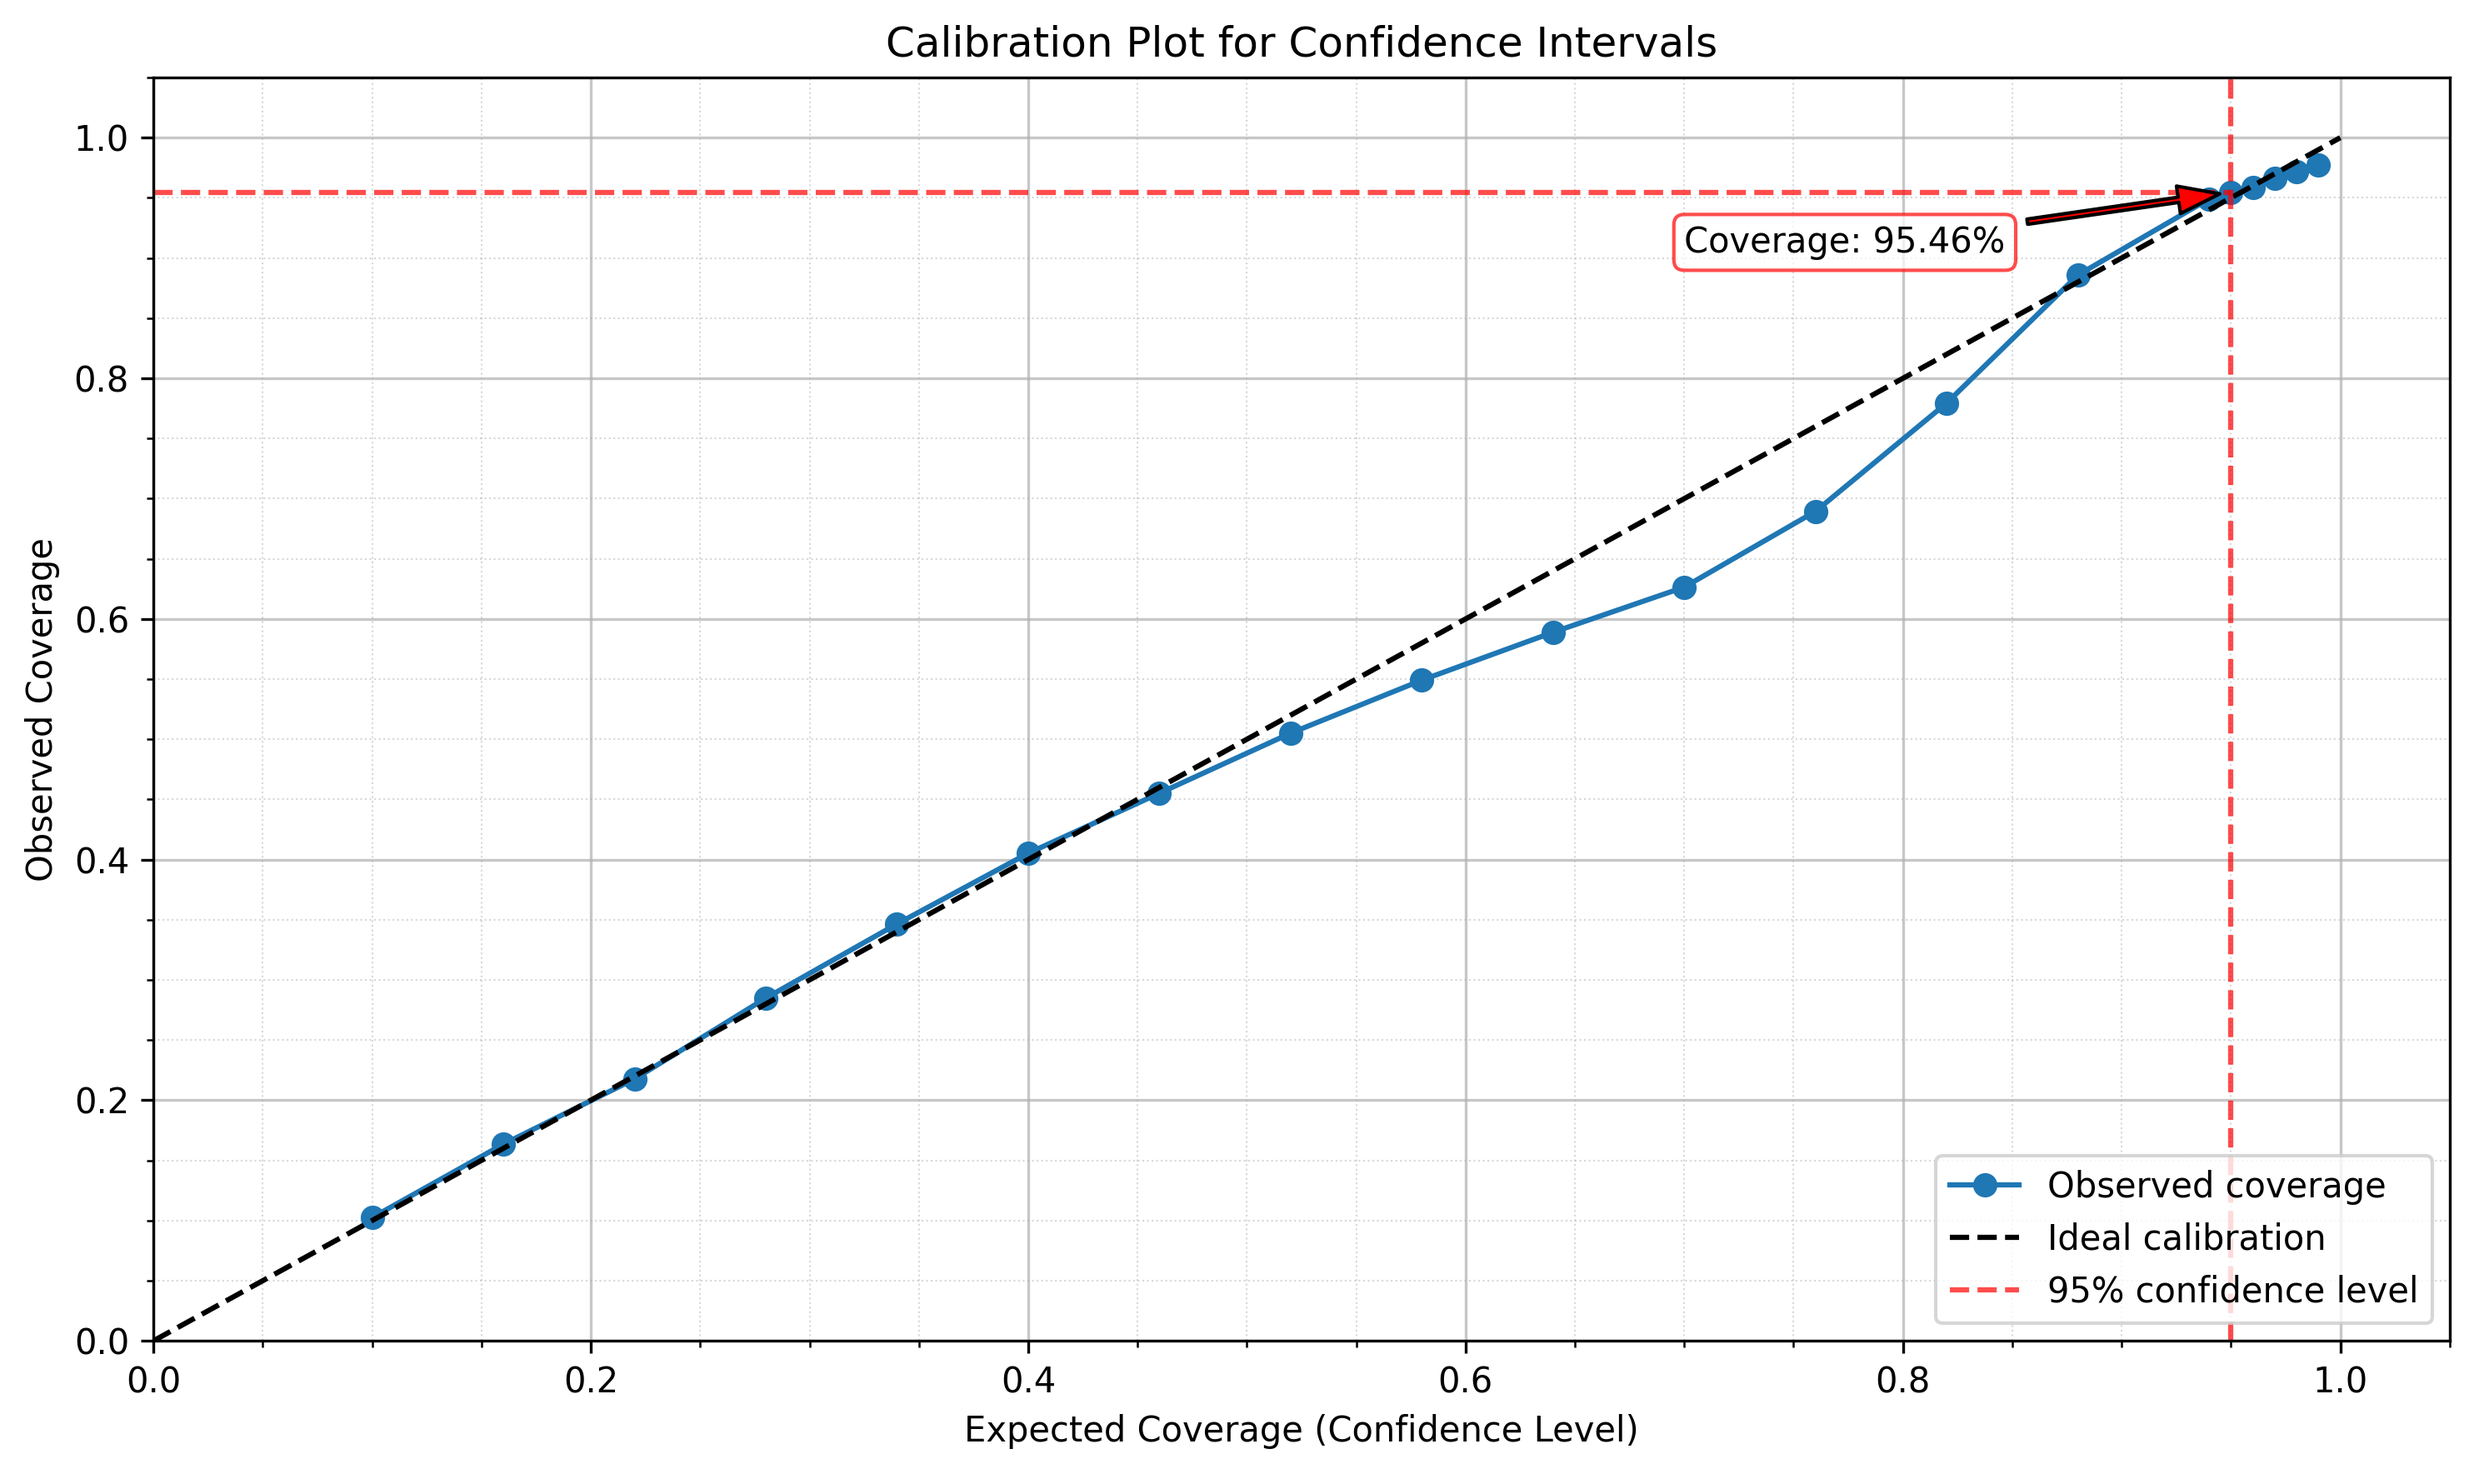
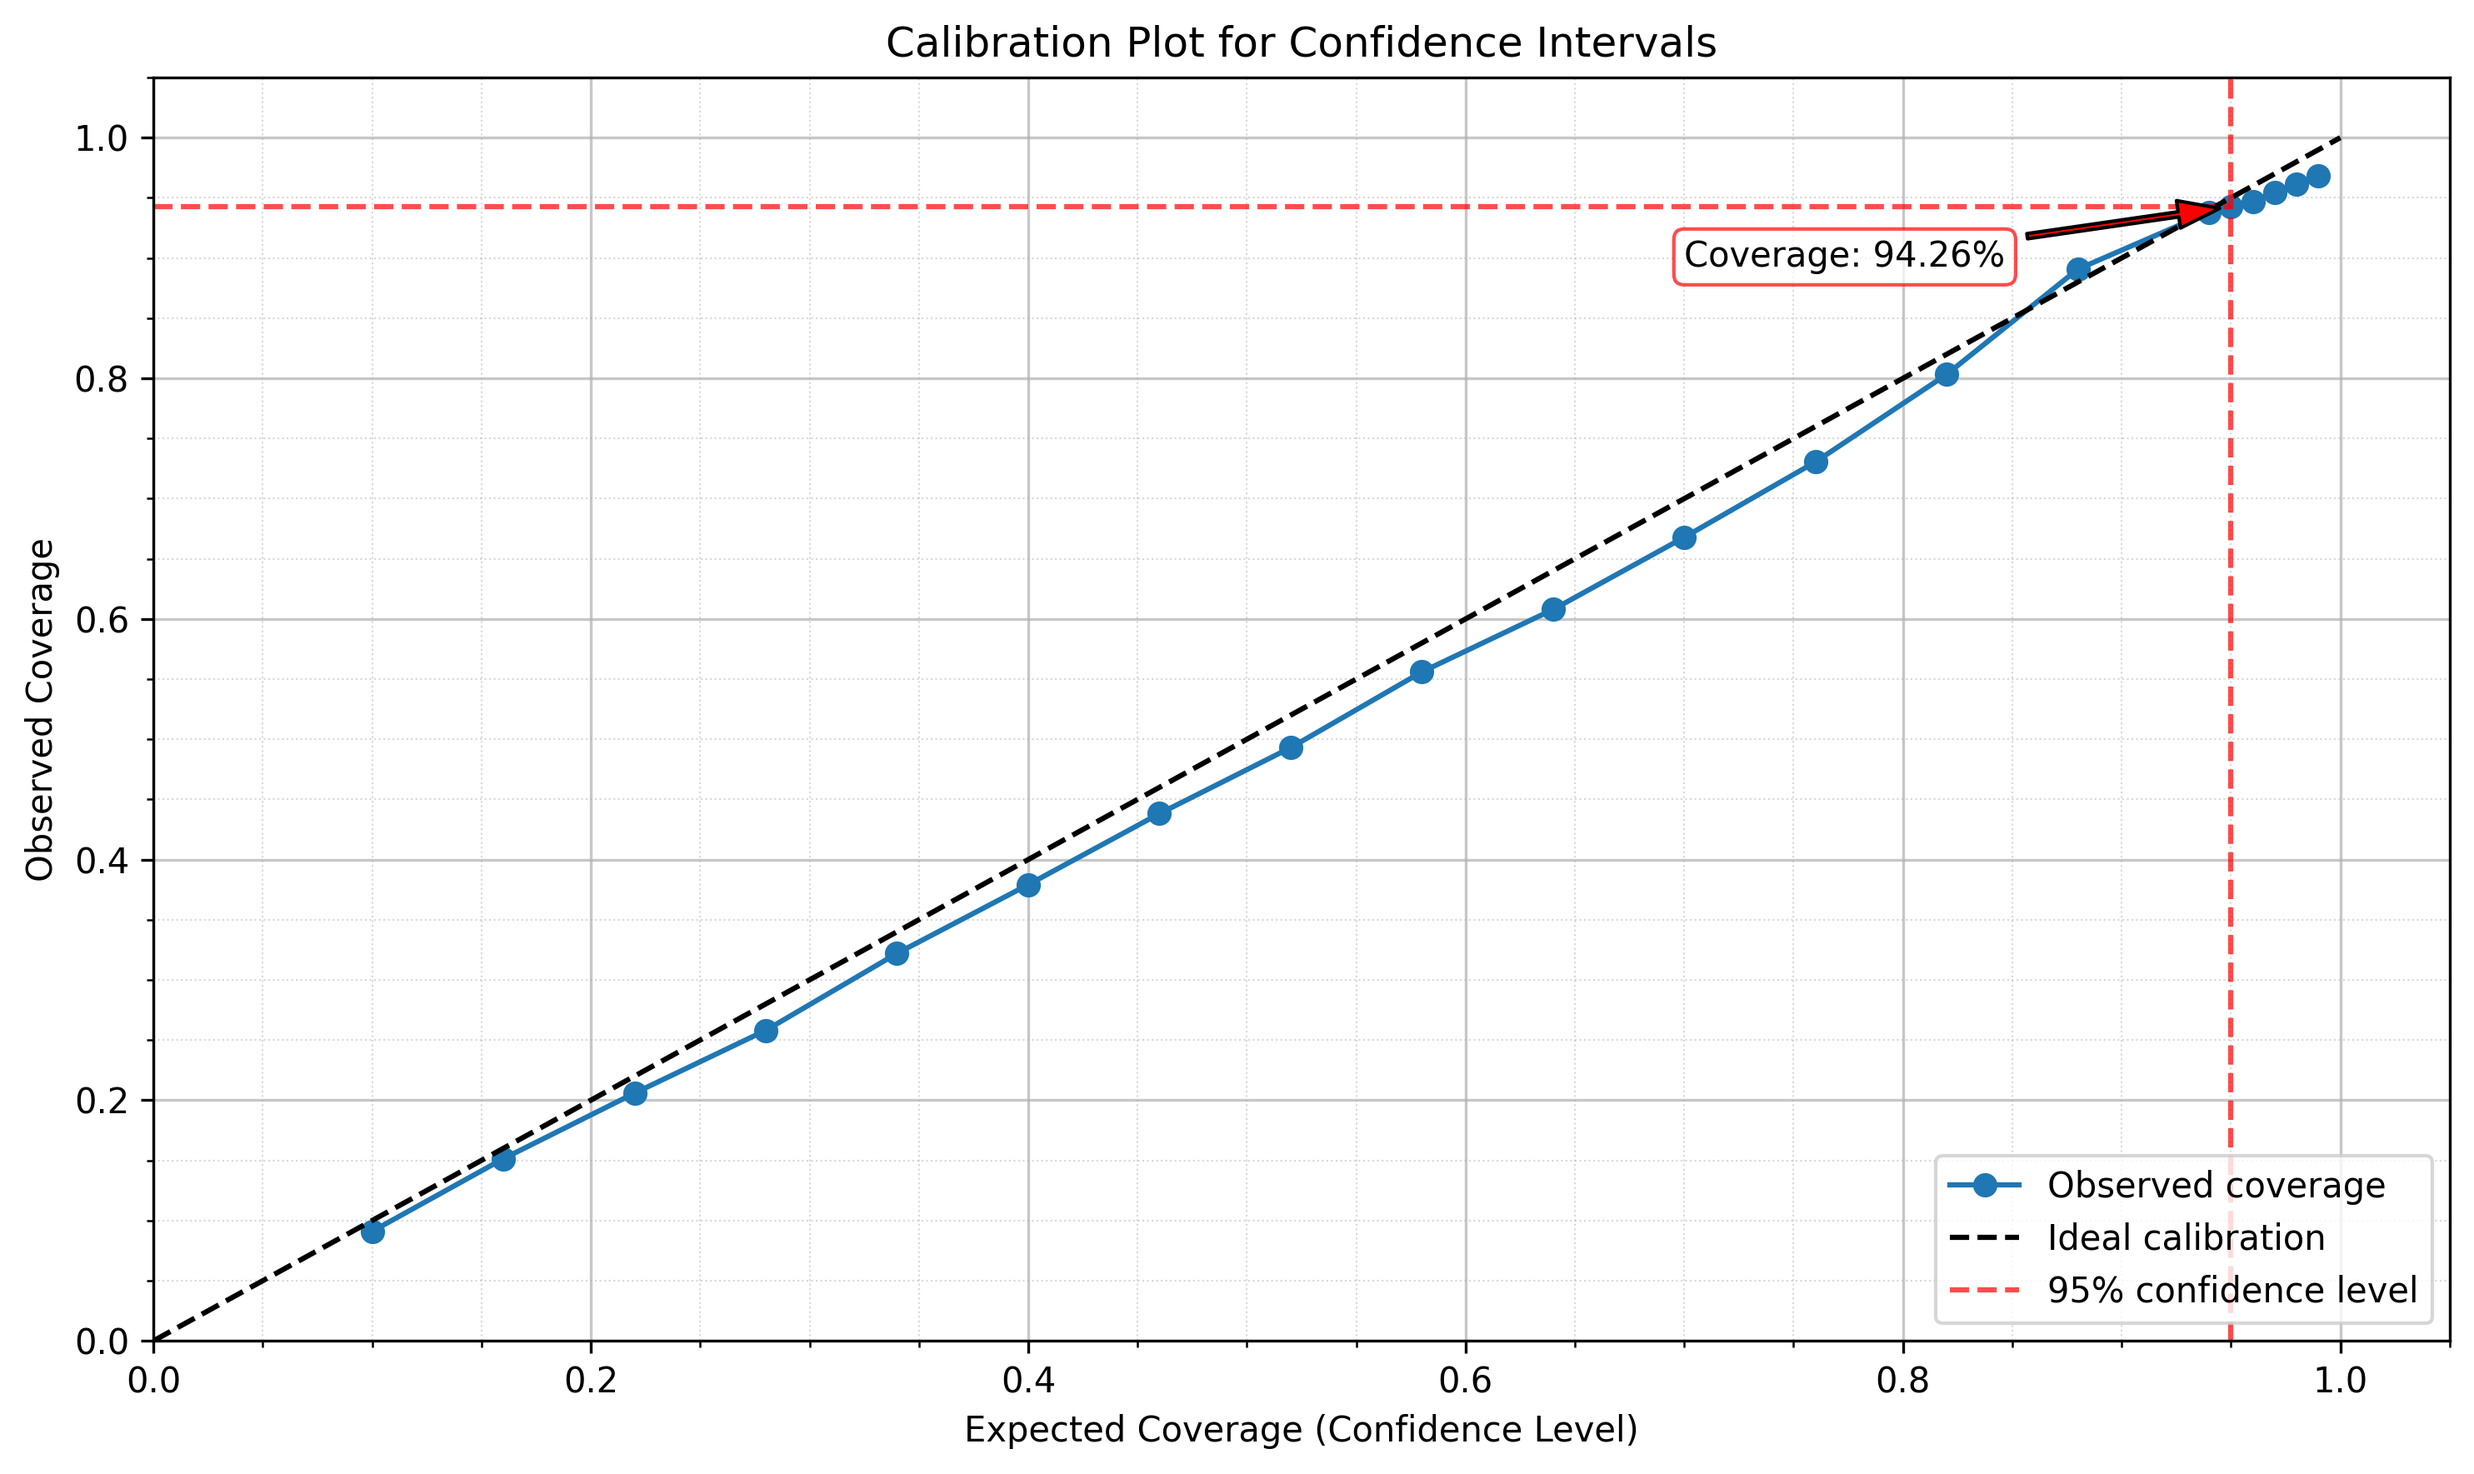
Update with gmm smoothing example

diff --git a/prob_gbt/example.py b/prob_gbt/example.py
@@ -43,11 +43,12 @@ def main():
     # Initialize and train the ProbGBT model
     print("\nTraining ProbGBT model...")
     model = ProbGBT(
-        num_quantiles=100,
-        iterations=250,
+        num_quantiles=100, # Use less quantiles to speed up training
+        iterations=200, # Use less iterations to reduce overfitting
+        depth=4, # Use shallow trees to widen predictions
         subsample=1.0,
         random_seed=1234,
-        train_separate_models=False
+        train_separate_models=False # Train a single model for all quantiles
     )
 
     model.train(
@@ -69,7 +70,7 @@ def main():
 
     # Predict confidence intervals
     print("\nPredicting confidence intervals...")
-    lower_bounds, upper_bounds = model.predict_interval(X_test, confidence_level=0.95, method='spline')
+    lower_bounds, upper_bounds = model.predict_interval(X_test, confidence_level=0.95, method='gmm')
     
     # Plot predictions vs actual for a subset of test samples
     print("\nPlotting predictions vs actual values...")
@@ -94,7 +95,7 @@ def main():
     # Plot PDF for a single example
     print("\nPlotting probability density function for a single example...")
     sample_idx = sample_indices[0]
-    pdfs = model.predict_pdf(X_test.iloc[[sample_idx]], method='spline')
+    pdfs = model.predict_pdf(X_test.iloc[[sample_idx]], method='gmm')
     x_values, pdf_values = pdfs[0]
 
     plt.figure(figsize=(10, 6))
@@ -133,7 +134,7 @@ def main():
     
     # Second pass to plot without y-axis limit adjustments
     for i, idx in enumerate(diverse_indices):
-        pdfs = model.predict_pdf(X_test.iloc[[idx]], method='spline')
+        pdfs = model.predict_pdf(X_test.iloc[[idx]], method='gmm')
         x_values, pdf_values = pdfs[0]
         
         axes[i].plot(x_values, pdf_values, label='PDF')
@@ -257,7 +258,7 @@ def main():
     print("Calculating coverage for different confidence levels...")
     for conf_level in tqdm(confidence_levels, desc="Evaluating confidence levels"):
         # Get interval bounds for this confidence level using the same method
-        lower, upper = model.predict_interval(X_test, confidence_level=conf_level, method='spline')
+        lower, upper = model.predict_interval(X_test, confidence_level=conf_level, method='gmm')
         
         # Calculate coverage
         coverage = np.mean((y_test >= lower) & (y_test <= upper))
